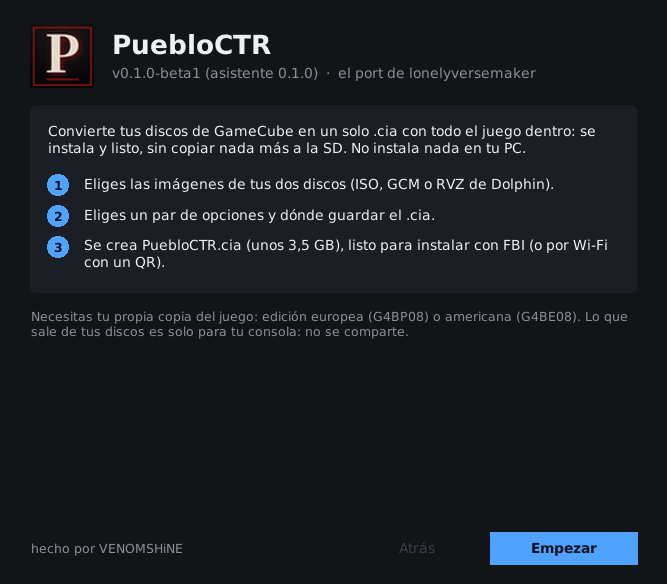
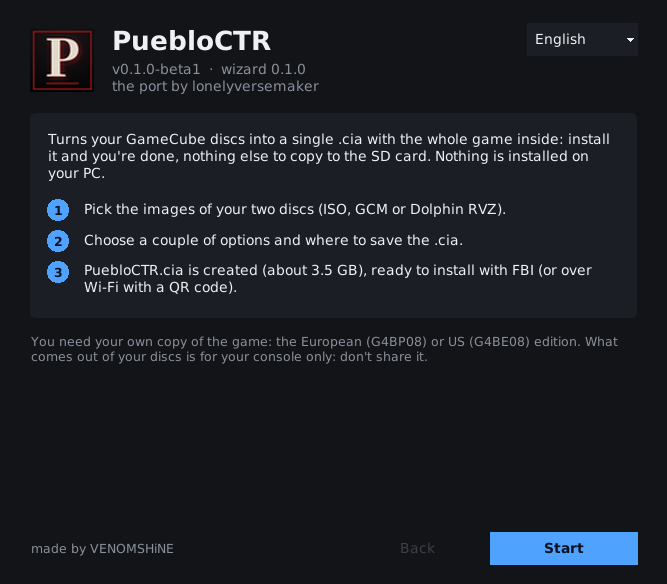
README rehecho, pensado para quien va a jugar
- Arriba, qué es: el compilador de PuebloCTR, el port de Resident Evil 4 de
  GameCube a la New 3DS, y que con otros juegos no está probado (el aviso
  anterior decía «quizás sirva» y justo después «solo acepta esos discos»).
- Sin «errores conocidos»: VENOMSHiNE ya lo probó en su consola.
- Linux: solo las distribuciones probadas (Debian 12 y Fedora 40) y abrirlo
  desde la terminal; el doble clic no funciona en muchos gestores de archivos.
- Lo técnico (makerom, el romfs, el modo sin ventana) pasa a «Compilar desde el
  código»; Funciones y la parte en inglés quedan para quien va a usarlo.
- Capturas nuevas, con el selector de idioma.
- CHANGELOG: la 0.1.0 ya está publicada (17 de noviembre) y sin la lista de
  distribuciones sin probar; el comentario de build_linux.sh, igual.

diff --git a/README.md b/README.md
@@ -1,15 +1,15 @@
 # PuebloCTR Compiler
 
-**Tus discos de GameCube → un solo `.cia` de PuebloCTR para tu New 3DS.** El asistente para Windows y Linux de [PuebloCTR](https://github.com/lonelyversemaker/PuebloCTR): eliges tus dos discos, pulsas un botón y sale `PuebloCTR.cia` con todo el juego dentro. Lo instalas con FBI y listo, sin copiar carpetas a la SD.
+**Tus discos de Resident Evil 4 (GameCube) → un solo `.cia` para tu New 3DS.** Eliges las imágenes de tus dos discos, pulsas un botón y sale `PuebloCTR.cia` con todo el juego dentro. Lo instalas con FBI y a jugar, sin copiar carpetas a la SD.
 
-> **Es para un solo juego: Resident Evil 4 de GameCube.** PuebloCTR es el port de ese juego para que funcione en la New 3DS, y este compilador está hecho y probado solo para él, con sus discos europeos (G4BP08) o americanos (G4BE08). Quizás sirva para otros juegos, pero está sin probar. Tal como está, solo acepta esos discos.
+[PuebloCTR](https://github.com/lonelyversemaker/PuebloCTR) es el port de Resident Evil 4 de GameCube a la New 3DS, de lonelyversemaker. Este compilador lo prepara todo en un solo archivo. Es solo para ese juego: con otros juegos no está probado.
 
 *English below · [Read in English](#english)*
 
 <a href='https://ko-fi.com/W3A028X2KV' target='_blank'><img height='36' style='border:0px;height:36px;' src='https://storage.ko-fi.com/cdn/kofi3.png?v=6' border='0' alt='Buy Me a Coffee at ko-fi.com' /></a>
 
 <p align="center">
-  <img src="docs/bienvenida.png" width="400" alt="La bienvenida del asistente: los tres pasos">
+  <img src="docs/bienvenida.png" width="400" alt="La primera pantalla: los tres pasos y el selector de idioma">
   <img src="docs/progreso.png" width="400" alt="Creando el .cia: el porcentaje, el tiempo que queda y cada fase">
 </p>
 
@@ -18,56 +18,55 @@
 De la [última versión](https://github.com/venomshine/PuebloCTRCompiler/releases/latest):
 
 - **Windows:** `PuebloCTR.exe`. Ábrelo y listo.
-- **Linux:** `PuebloCTR-Linux.tar.gz`. Descomprímelo y abre `PuebloCTR/PuebloCTR` (doble clic, o desde la terminal: `tar xzf PuebloCTR-Linux.tar.gz && ./PuebloCTR/PuebloCTR`).
+- **Linux:** `PuebloCTR-Linux.tar.gz`. Descomprímelo y ábrelo desde la terminal:
+  ```
+  tar xzf PuebloCTR-Linux.tar.gz
+  ./PuebloCTR/PuebloCTR
+  ```
 
-Es portátil: no instala nada ni pide Python. Lleva dentro el motor de PuebloCTR ya compilado, PuebloPrep y makerom.
+No instala nada ni pide Python: lleva dentro todo lo que necesita.
 
-Necesitas:
-- **Tu propia copia del juego:** los dos discos de la edición europea (G4BP08) o americana (G4BE08), como imágenes ISO, GCM o RVZ de Dolphin.
-- **Windows 10/11** de 64 bits, o **Linux** de 64 bits con escritorio (Ubuntu 22.04 o posterior, Debian 12, Linux Mint 21, Fedora 36, Arch… cualquiera con glibc 2.35 o posterior).
-- Unos **7 GB libres** en el disco donde guardes el `.cia` mientras se crea (al final queda solo el `.cia`, de unos 3,5 GB).
+**Necesitas:**
+- **Tus propios discos** de Resident Evil 4 para GameCube, edición europea (G4BP08) o americana (G4BE08), como imágenes ISO, GCM o RVZ de Dolphin.
+- **Windows 10/11** de 64 bits, o **Linux** de 64 bits (probado en Debian 12 y Fedora 40).
+- Unos **7 GB libres** en el disco del PC mientras se crea el `.cia`. Al final solo queda el `.cia`, de unos 3,5 GB.
 - Una **New 3DS, New 3DS XL o New 2DS XL** con homebrew y FBI (por ejemplo, con [3ds.hacks.guide](https://3ds.hacks.guide/)). Las 3DS y 2DS antiguas no pueden con el juego.
 
 ## Cómo se usa
 
-1. Abre `PuebloCTR.exe` (o `PuebloCTR` en Linux). Si quieres, cambia el idioma arriba a la derecha → **Empezar**.
-2. **Tus discos:** elige la imagen del disco 1 y la del disco 2. Te dice al momento qué edición es y si falta algo.
-3. **Opciones:** pack de texturas, vídeos (necesitan ffmpeg: si no lo tienes, el botón **Descargar** lo baja), tus partidas `.gci` / `.gcs` si quieres traerlas, y dónde guardar el `.cia`. Si tienes la SD de la consola conectada, **Guardarlo en la SD** lo deja directamente en `SD:\cia\`.
-4. **Crear el .cia** y espera (unos minutos; los vídeos son lo que más tarda).
-5. Instálalo:
-   - **Por Wi-Fi:** pulsa **Instalar por Wi-Fi (QR)** y en la consola abre FBI → *Remote Install* → *Scan QR Code*. No hay que copiar nada, pero son 3,5 GB y tarda.
-   - **Con la SD:** copia `PuebloCTR.cia` a la SD (por ejemplo a `cia`) y en la consola: FBI → SD → cia → `PuebloCTR.cia` → *Install CIA*.
+1. Abre el programa. Arriba a la derecha puedes cambiar el idioma (español o inglés). Pulsa **Empezar**.
+2. **Tus discos:** elige la imagen del disco 1 y la del disco 2. Te dice al momento si son las correctas.
+3. **Opciones:** pack de texturas, vídeos, tus partidas de GameCube si quieres traerlas, y dónde guardar el `.cia`. Los vídeos necesitan ffmpeg: si no lo tienes, el botón **Descargar** lo baja.
+4. Pulsa **Crear el .cia** y espera unos minutos.
+5. Instálalo en la consola:
+   - **Con la SD:** copia `PuebloCTR.cia` a la SD y en la consola abre FBI → SD → `PuebloCTR.cia` → *Install CIA*.
+   - **Por Wi-Fi:** pulsa **Instalar por Wi-Fi (QR)** y en la consola abre FBI → *Remote Install* → *Scan QR Code*. No hay que copiar nada, pero son 3,5 GB y tarda más.
 
-Hacen falta unos 3,5 GB libres en la SD para instalarlo. Después puedes borrar el `.cia`.
+Hacen falta unos 3,5 GB libres en la SD. Cuando esté instalado, puedes borrar el `.cia`.
 
 ## Funciones
 
-- **Un solo archivo:** el juego (discos, texturas y vídeos) va dentro del `.cia`. En la SD solo se guardan tus partidas, los ajustes y los informes de errores, en `sd:/3ds/pueblo/`, como en PuebloCTR.
-- **Reconoce tus imágenes** antes de empezar: edición, número de disco, discos cambiados o de ediciones distintas, imágenes recortadas y formatos que no sirven (CISO, GCZ, WIA: te dice cómo convertirlos con Dolphin).
-- **Tus partidas de GameCube** (`.gci` / `.gcs` de Dolphin o de una tarjeta) van dentro del `.cia` y pasan a la SD al arrancar la primera vez, solo si allí no hay ya una tarjeta de memoria. Tus partidas nunca se pisan.
-- **ffmpeg sin complicaciones:** lo busca junto al programa, en `C:\ffmpeg\bin` (Windows), en `/usr/bin` (Linux) y en el PATH, comprueba que tenga libx264, y si no, lo descarga con un botón (en Windows el de gyan.dev; en Linux el estático de johnvansickle.com).
-- **Rápido y ligero:** el `.cia` se escribe por partes, sin cargar el juego en la memoria. 3,5 GB en unos segundos y con unos 100 MB de RAM (makerom necesitaba 3,5 GB de RAM y minuto y medio).
-- **Progreso claro:** porcentaje, tiempo que queda (más exacto a partir de la segunda vez), cada fase y lo que está haciendo.
-- **Al terminar:** el archivo, su tamaño y su md5, e instalación por Wi-Fi con un QR para FBI.
-- **Windows y Linux**, con las mismas pantallas y las mismas funciones.
-- **Español e inglés:** el selector está arriba a la derecha de la bienvenida y cambia todo al momento. La primera vez se abre en el idioma del PC, y luego recuerda el que elijas.
-- **Sin ventana**, para pruebas: `PuebloCTR.exe build disco1.rvz disco2.rvz -o PuebloCTR.cia [--sin-texturas] [--sin-videos] [--partida F.gci]` (en Linux, `./PuebloCTR build …`; la salida va a `PuebloCTR.log`, junto al programa).
+- **Un solo archivo:** el juego, el pack de texturas y los vídeos van dentro del `.cia`. En la SD solo se guardan tus partidas y tus ajustes (en `sd:/3ds/pueblo/`).
+- **Comprueba tus discos** antes de empezar: si es la edición correcta, si falta uno o están cambiados, y si el formato no sirve (te dice cómo convertirlo con Dolphin).
+- **Tus partidas de GameCube** (`.gci` / `.gcs`) van dentro del `.cia` y pasan a la SD la primera vez que abres el juego. Si ya tienes partidas en la consola, no se tocan.
+- **ffmpeg con un botón:** lo busca en tu PC y, si no lo tienes, lo descarga.
+- **Progreso claro:** porcentaje, tiempo que queda y en qué paso va.
+- **Al terminar:** el archivo, su tamaño y su md5, y un QR para instalarlo por Wi-Fi con FBI.
+- **Español e inglés:** la primera vez se abre en el idioma de tu PC y luego recuerda el que elijas.
+- **Windows y Linux**, con las mismas pantallas.
+- En el menú HOME, el icono dice **PuebloCTR · Compiled by VENOMSHiNE**.
 
 ## Qué cambia respecto a PuebloCTR
 
-PuebloCTR lee el juego de la carpeta `sd:/3ds/pueblo/` que hace PuebloPrep, y su `.cia` va aparte. Aquí el motor lleva `patches/unico-cia.patch`:
-
-- Al arrancar, si el `.cia` lleva el juego dentro, lee los discos, el pack de texturas y los vídeos de su romfs. Si no, de la SD, como siempre.
-- Lo que se escribe sigue en la SD, porque el romfs es de solo lectura: `saves/memcard.bin`, `settings.bin`, `pueblo.cfg` y `crash.txt`.
-- No cambia nada más del juego: misma versión de PuebloCTR (v0.1.0-beta1), mismos ajustes, mismos controles.
+Con PuebloCTR tal cual, hay que copiar a la SD una carpeta de unos 3,5 GB que hace PuebloPrep e instalar su `.cia` aparte. Aquí va todo en el `.cia`. Por lo demás, es el mismo juego: PuebloCTR v0.1.0-beta1, con sus ajustes y sus controles.
 
 ## Antes de actualizar
 
-Cuando salga una versión nueva de PuebloCTR, hace falta un `PuebloCTR.exe` nuevo de este proyecto: el motor y el pack de texturas tienen que ser de la misma versión. Tus partidas no se tocan al reinstalar (están en `sd:/3ds/pueblo/saves/`), pero cópialas a otro sitio de vez en cuando.
+Cada versión de PuebloCTR necesita su propio `PuebloCTR.exe`, porque el motor y el pack de texturas tienen que ser de la misma versión. Tus partidas no se tocan al reinstalar (están en `sd:/3ds/pueblo/saves/`), pero cópialas a otro sitio de vez en cuando.
 
 ## Errores y sugerencias
 
-¿Algo falla o se ve raro? Abre un [issue](https://github.com/venomshine/PuebloCTRCompiler/issues) o escríbeme en [Discord](https://discord.com/invite/yVKp8JwV4e). El registro de PuebloPrep (botón **Ver el registro**, o `%LOCALAPPDATA%\PuebloCTR\puebloprep.log` en Windows y `~/.local/share/PuebloCTR/puebloprep.log` en Linux) ayuda mucho; si el juego se cierra en la consola, también `sd:/3ds/pueblo/crash.txt`. Si quieres apoyar el proyecto, invítame a un café:
+¿Algo falla o se ve raro? Abre un [issue](https://github.com/venomshine/PuebloCTRCompiler/issues) o escríbeme en [Discord](https://discord.com/invite/yVKp8JwV4e). Ayuda mucho el registro del programa (botón **Ver el registro** al terminar) y, si el juego se cierra en la consola, el archivo `sd:/3ds/pueblo/crash.txt`. Si quieres apoyar el proyecto, invítame a un café:
 
 <a href='https://ko-fi.com/W3A028X2KV' target='_blank'><img height='36' style='border:0px;height:36px;' src='https://storage.ko-fi.com/cdn/kofi3.png?v=6' border='0' alt='Buy Me a Coffee at ko-fi.com' /></a>
 
@@ -76,52 +75,51 @@ Cuando salga una versión nueva de PuebloCTR, hace falta un `PuebloCTR.exe` nuev
 Todo se compila en Linux con Docker, sin Windows:
 
 ```
-tools/make_runtime.sh      # PuebloCTR + patches/unico-cia.patch (en su imagen Docker) y puebloprep-cli.exe -> tools/runtime/
-tools/build_exe.sh         # Windows: PyInstaller dentro de Wine (Docker) -> out/PuebloCTR.exe
-tools/build_linux.sh       # Linux: PuebloPrep, makerom y PyInstaller en Ubuntu 22.04 (Docker) -> out/PuebloCTR-Linux.tar.gz
+tools/make_runtime.sh      # el motor de PuebloCTR con patches/unico-cia.patch y PuebloPrep -> tools/runtime/
+tools/build_exe.sh         # Windows: out/PuebloCTR.exe (PyInstaller dentro de Wine)
+tools/build_linux.sh       # Linux: out/PuebloCTR-Linux.tar.gz (en Ubuntu 22.04)
 ```
 
-`make_runtime.sh` necesita además cmake, ninja y `g++-mingw-w64-x86-64-posix` para PuebloPrep. La versión de PuebloCTR va en `PUEBLO_REF` (`tools/make_runtime.sh`) y en `PUEBLO_VERSION` (`tools/pueblo3ds/__init__.py`).
+`make_runtime.sh` necesita además cmake, ninja y `g++-mingw-w64-x86-64-posix`. La versión de PuebloCTR va en `PUEBLO_REF` (`tools/make_runtime.sh`) y en `PUEBLO_VERSION` (`tools/pueblo3ds/__init__.py`).
+
+Cómo funciona por dentro:
+
+- **El motor** es PuebloCTR con `patches/unico-cia.patch`: si el `.cia` lleva el juego dentro, lee los discos, las texturas y los vídeos de su romfs; si no, de `sd:/3ds/pueblo/` como siempre. Las partidas, los ajustes y `crash.txt` siguen en la SD, porque el romfs es de solo lectura.
+- **El `.cia`:** makerom hace uno pequeño con el motor, el icono y el banner, y `ciabuild.py` le mete el juego por partes, sin cargarlo en la memoria (makerom pedía tanta RAM como el juego). El romfs sale idéntico al de makerom, y `tests/verificar_cia.py` comprueba todos sus hashes.
 
 ```
 tools/
-  PuebloCTR.pyw        entrada del .exe (asistente, o modo sin ventana con argumentos)
-  pueblo3ds/gui.py     el asistente (Tk): bienvenida, discos, opciones, progreso, listo, QR
-  pueblo3ds/build.py   PuebloPrep, partidas, ffmpeg, espacio libre y el .cia final
-  pueblo3ds/ciabuild.py  romfs (IVFC) y .cia por partes, igual byte a byte que makerom
-  pueblo3ds/discs.py   reconoce imágenes ISO / GCM / RVZ
-  pueblo3ds/serve.py   servidor para instalar con FBI por QR
-  pueblo3ds/i18n.py    idiomas: la clave es el texto en español, con su traducción al inglés
-  i18n_check.py        avisa de los textos sin traducir o que ya no se usan
-patches/unico-cia.patch  el motor que lee el juego del romfs del .cia
+  PuebloCTR.pyw          entrada del programa (ventana, o sin ventana con argumentos)
+  pueblo3ds/gui.py       las pantallas (Tk)
+  pueblo3ds/build.py     PuebloPrep, partidas, ffmpeg y el .cia final
+  pueblo3ds/ciabuild.py  el romfs y el .cia por partes
+  pueblo3ds/discs.py     reconoce las imágenes ISO / GCM / RVZ
+  pueblo3ds/serve.py     el servidor para instalar con FBI por QR
+  pueblo3ds/i18n.py      los idiomas: la clave es el texto en español
+  i18n_check.py          avisa de los textos sin traducir
+patches/unico-cia.patch  el motor que lee el juego desde el .cia
 tests/verificar_cia.py   comprueba un .cia (hashes, y archivos contra una carpeta)
 ```
 
-Para añadir o corregir traducciones, edita `tools/pueblo3ds/i18n.py` y ejecuta `python3 tools/i18n_check.py` (avisa de lo que falte).
+Para añadir o corregir traducciones, edita `tools/pueblo3ds/i18n.py` y ejecuta `python3 tools/i18n_check.py`.
 
-Desde el código, sin hacer el `.exe`: `python3 tools/run.py build disco1.iso disco2.iso -o PuebloCTR.cia` (con `tools/runtime/` hecho).
+Sin ventana (para pruebas): `PuebloCTR.exe build disco1.rvz disco2.rvz -o PuebloCTR.cia [--sin-texturas] [--sin-videos] [--partida F.gci]`. La salida va a `PuebloCTR.log`, junto al programa.
 
 ---
 
 ## English
 
-**Your GameCube discs → one PuebloCTR `.cia` for your New 3DS.** A Windows and Linux wizard for [PuebloCTR](https://github.com/lonelyversemaker/PuebloCTR): pick your two discs, press a button, and you get `PuebloCTR.cia` with the whole game inside. Install it with FBI and you're done. There's no folder to copy to the SD card.
+**Your Resident Evil 4 (GameCube) discs → one `.cia` for your New 3DS.** Pick the images of your two discs, press a button, and you get `PuebloCTR.cia` with the whole game inside. Install it with FBI and play, with no folders to copy to the SD card.
 
-> **One game only: Resident Evil 4 for GameCube.** PuebloCTR is the port of that game to run on the New 3DS, and this compiler is made and tested only for it, with its European (G4BP08) or US (G4BE08) discs. It might work for other games, but that's untested. As it is, it only accepts those discs.
+[PuebloCTR](https://github.com/lonelyversemaker/PuebloCTR) is lonelyversemaker's port of Resident Evil 4 for GameCube to the New 3DS. This compiler puts it all in a single file. It's for that game only: other games are untested.
 
-**Download** from the [latest release](https://github.com/venomshine/PuebloCTRCompiler/releases/latest): `PuebloCTR.exe` for Windows, or `PuebloCTR-Linux.tar.gz` for Linux (unpack it and open `PuebloCTR/PuebloCTR`). It's portable: it installs nothing and needs no Python, and it carries PuebloCTR's engine, PuebloPrep and makerom.
+**Download** from the [latest release](https://github.com/venomshine/PuebloCTRCompiler/releases/latest): `PuebloCTR.exe` for Windows, or `PuebloCTR-Linux.tar.gz` for Linux (unpack it and run `./PuebloCTR/PuebloCTR` from a terminal). It installs nothing and needs no Python.
 
-**You need:**
-- Your own copy of the game: both discs of the European (G4BP08) or US (G4BE08) edition, as ISO, GCM or Dolphin RVZ images.
-- Windows 10/11 64-bit, or 64-bit desktop Linux with glibc 2.35 or later (Ubuntu 22.04+, Debian 12, Mint 21, Fedora 36, Arch…).
-- ~7 GB free on the drive where the `.cia` is saved while it's made.
-- A New 3DS / New 3DS XL / New 2DS XL with homebrew and FBI.
+**You need:** your own Resident Evil 4 GameCube discs, European (G4BP08) or US (G4BE08) edition, as ISO, GCM or Dolphin RVZ images; Windows 10/11 64-bit or 64-bit Linux (tested on Debian 12 and Fedora 40); about 7 GB free on your PC while the `.cia` is made; and a New 3DS, New 3DS XL or New 2DS XL with homebrew and FBI.
 
-**Use:** open the program (the language selector is at the top right of the first screen: English or Spanish; it starts in your PC's language), pick your disc images and choose your options: texture pack, movies (ffmpeg is found or downloaded with one button), your `.gci` / `.gcs` saves and where to save the `.cia`. Then press **Crear el .cia**. Install it over Wi-Fi with the QR code (FBI → *Remote Install* → *Scan QR Code*), or copy it to the SD card and install it with FBI. You need ~3.5 GB free on the SD card.
+**How to use it:** open the program (the language selector is at the top right: English or Spanish), pick your two disc images, choose your options (texture pack, movies, your GameCube saves, where to save the `.cia`) and press **Create the .cia**. Then copy it to the SD card and install it with FBI, or install it over Wi-Fi with the QR code (FBI → *Remote Install* → *Scan QR Code*). You need about 3.5 GB free on the SD card. Your saves and settings stay in `sd:/3ds/pueblo/`, and your GameCube saves come along inside the `.cia` if you add them.
 
-**What's different from PuebloCTR:** the engine is built with `patches/unico-cia.patch`. It reads the discs, textures and movies from the `.cia`'s own romfs; saves, settings and crash reports stay on the SD card in `sd:/3ds/pueblo/`. Imported saves are copied there on first start, only if no memory card exists yet. The `.cia` is written piece by piece: 3.5 GB in seconds with ~100 MB of RAM, byte-identical to makerom's romfs.
-
-**Updating:** a new PuebloCTR version needs a new build of this tool (the engine and the texture pack must match). Your saves stay in `sd:/3ds/pueblo/saves/`.
+**Updating:** each PuebloCTR version needs its own `PuebloCTR.exe`. Your saves aren't touched when you reinstall.
 
 **Build:** `tools/make_runtime.sh`, then `tools/build_exe.sh` (Windows) and `tools/build_linux.sh` (Linux), all with Docker.
 
@@ -131,7 +129,7 @@ Bugs and ideas: [issues](https://github.com/venomshine/PuebloCTRCompiler/issues)
 
 Hecho por **VENOMSHiNE** · [GitHub](https://github.com/venomshine) · [Discord](https://discord.com/invite/yVKp8JwV4e) · [Ko-fi](https://ko-fi.com/venomshine)
 
-PuebloCTR es el port de [lonelyversemaker](https://github.com/lonelyversemaker/PuebloCTR); este asistente lo empaqueta en un solo `.cia`. PuebloCTR Compiler es un proyecto no oficial y no está afiliado a Nintendo, Capcom ni CRI Middleware. No incluye ningún dato del juego: necesitas tus propios discos. *PuebloCTR Compiler is an unofficial project, not affiliated with Nintendo, Capcom or CRI Middleware. No game data is included.*
+PuebloCTR es el port de [lonelyversemaker](https://github.com/lonelyversemaker/PuebloCTR); yo solo lo compilo en un `.cia`. PuebloCTR Compiler es un proyecto no oficial y no está afiliado a Nintendo, Capcom ni CRI Middleware. No incluye ningún dato del juego: necesitas tus propios discos. *PuebloCTR Compiler is an unofficial project, not affiliated with Nintendo, Capcom or CRI Middleware. No game data is included.*
 
 ## Licencia
 

diff --git a/CHANGELOG.md b/CHANGELOG.md
@@ -1,20 +1,17 @@
 # Cambios
 
-## 0.1.0 (sin publicar)
+## 0.1.0 — 17 de noviembre de 2026
 
-Primera versión, para PuebloCTR v0.1.0-beta1.
+Primera versión, para PuebloCTR v0.1.0-beta1 (el port de Resident Evil 4 de GameCube a la New 3DS).
 
-- Asistente para Windows (`PuebloCTR.exe`) y Linux (`PuebloCTR-Linux.tar.gz`), portátil: de las imágenes de tus dos discos de GameCube (ISO, GCM o RVZ de
-  Dolphin; ediciones G4BP08 y G4BE08) a **un solo `PuebloCTR.cia` con todo el juego dentro**. No hay que copiar la carpeta
-  `3ds/pueblo` a la SD.
-- Linux: Ubuntu 22.04 o posterior, Debian 12, Mint 21, Fedora 36, Arch… (glibc 2.35 o posterior). Descarga el ffmpeg
-  estático de johnvansickle.com si no hay uno con libx264, y los programas que lanza usan las bibliotecas del sistema.
-- En español y en inglés, con un selector en la bienvenida: la primera vez, el idioma del PC; luego, el elegido.
-- En el menú HOME, el icono dice «PuebloCTR · Compiled by VENOMSHiNE» (el nombre y la descripción siguen siendo
-  los de PuebloCTR).
-- Reconoce cada imagen antes de empezar: edición, número de disco, formatos que no sirven, discos cambiados o mezclados.
+- De las imágenes de tus dos discos (ISO, GCM o RVZ de Dolphin; ediciones G4BP08 y G4BE08) a **un solo `PuebloCTR.cia`
+  con todo el juego dentro**. No hay que copiar la carpeta `3ds/pueblo` a la SD.
+- Para Windows (`PuebloCTR.exe`) y Linux (`PuebloCTR-Linux.tar.gz`; probado en Debian 12 y Fedora 40). No instala nada.
+- En español y en inglés, con un selector en la primera pantalla: la primera vez, el idioma del PC; luego, el elegido.
+- Comprueba cada imagen antes de empezar: edición, número de disco, discos cambiados o mezclados y formatos que no sirven.
 - Pack de texturas, vídeos (busca ffmpeg o lo descarga con un botón) y partidas `.gci` / `.gcs` dentro del `.cia`.
-- El `.cia` se escribe por partes: unos 3,5 GB en unos segundos y con unos 100 MB de RAM (makerom necesitaba 3,5 GB).
-- Motor de PuebloCTR con `patches/unico-cia.patch`: lee los discos, las texturas y los vídeos del romfs del `.cia`; las
-  partidas, los ajustes y los informes de errores siguen en la SD.
-- Instalación por Wi-Fi con un QR para FBI, md5 del `.cia`, tiempo restante según tu última vez, y modo sin ventana.
+- Progreso con el tiempo que queda, md5 del `.cia` e instalación por Wi-Fi con un QR para FBI.
+- En el menú HOME, el icono dice «PuebloCTR · Compiled by VENOMSHiNE» (el nombre y la descripción siguen siendo los de
+  PuebloCTR).
+- Motor de PuebloCTR con `patches/unico-cia.patch`: lee el juego del `.cia`; las partidas, los ajustes y los informes de
+  errores siguen en la SD.
